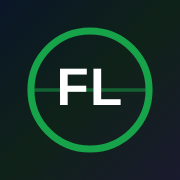
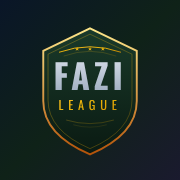
Pulsante "Installa" nell'app e icona con lo stemma
- Banner "Metti Fazi League sulla schermata Home" con pulsante INSTALLA:
  su Android apre la finestra di installazione di Chrome, altrimenti mostra
  i passaggi (iPhone/Safari o Android/Chrome, anche se aperta da WhatsApp)
- Il banner si può chiudere e non compare se l'app è già installata
- Icone della schermata Home rifatte con lo stemma FAZI LEAGUE dell'app
- Manifest: icone "any" e "maskable" separate, id dell'app

Claude-Session: https://claude.ai/code/session_01Ez5Lvp4BfofHqTWaZmhtaJ

Changed region(s): [[0.1389, 0.1389, 0.8611, 0.8611], [0.3611, 0.6667, 0.5278, 0.6944], [0.5556, 0.6667, 0.6389, 0.6944]]

diff --git a/src/App.jsx b/src/App.jsx
@@ -265,6 +265,13 @@ const uiAsk = (opts) =>
 const uiConfirm = (text, opts = {}) => uiAsk({ ...opts, text });
 const uiPrompt = (text, value = "", opts = {}) => uiAsk({ ...opts, text, input: true, value });
 
+// Installazione sulla schermata Home
+const UA = typeof navigator !== "undefined" ? navigator.userAgent : "";
+const IS_IOS = /iphone|ipad|ipod/i.test(UA) || (/macintosh/i.test(UA) && typeof navigator !== "undefined" && navigator.maxTouchPoints > 1);
+const IS_ANDROID = /android/i.test(UA);
+const isStandalone = () =>
+  (typeof window !== "undefined" && window.matchMedia?.("(display-mode: standalone)").matches) || window.navigator?.standalone === true;
+
 function logEvent(type, detail) {
   push(ref(db, "logs"), { t: Date.now(), type, detail, dev: DEVICE_ID, me: lsGet("fazi_me") }).catch(() => {});
 }
@@ -323,6 +330,9 @@ export default function App() {
   const [busy, setBusy] = useState(false);
   const [dialog, setDialog] = useState(null); // conferme/domande dentro l'app
   const dialogRef = useRef(null);
+  const [installEvt, setInstallEvt] = useState(null);   // finestra di installazione di Chrome
+  const [installHelp, setInstallHelp] = useState(false);
+  const [installHidden, setInstallHidden] = useState(() => isStandalone() || lsGet("fazi_install_hide") === "1");
 
   const autocompleteRef = useRef(null);
   const toastTimer = useRef(null);
@@ -351,6 +361,26 @@ export default function App() {
     };
     return () => { openDialog = null; };
   }, []);
+
+  useEffect(() => {
+    const onPrompt = (e) => { e.preventDefault(); setInstallEvt(e); };
+    const onInstalled = () => { setInstallEvt(null); setInstallHidden(true); };
+    window.addEventListener("beforeinstallprompt", onPrompt);
+    window.addEventListener("appinstalled", onInstalled);
+    return () => {
+      window.removeEventListener("beforeinstallprompt", onPrompt);
+      window.removeEventListener("appinstalled", onInstalled);
+    };
+  }, []);
+
+  const installApp = async () => {
+    if (!installEvt) return setInstallHelp(true);
+    installEvt.prompt();
+    try { await installEvt.userChoice; } catch { /* ignorato */ }
+    setInstallEvt(null);
+  };
+
+  const hideInstall = () => { lsSet("fazi_install_hide", "1"); setInstallHidden(true); };
 
   const closeDialog = (ok) => {
     const d = dialogRef.current;
@@ -1162,6 +1192,15 @@ export default function App() {
         <p style={S.subtitle}>Settimana {formatDate(weekDates.monday)} – {formatDate(weekDates.friday)}</p>
       </div>
 
+      {!installHidden && (installEvt || IS_IOS || IS_ANDROID) && (
+        <div style={{ display: "flex", alignItems: "center", gap: 10, maxWidth: 520, width: "calc(100% - 32px)", boxSizing: "border-box", margin: "0 auto 16px", padding: "10px 12px 10px 14px", borderRadius: 14, background: "rgba(22,163,74,0.12)", border: "1px solid rgba(22,163,74,0.35)", position: "relative", zIndex: 1 }}>
+          <span style={{ fontSize: 20 }}>📲</span>
+          <span style={{ flex: 1, fontSize: 14, color: "#e2e8f0", lineHeight: 1.3 }}>Metti Fazi League sulla schermata Home, come un'app</span>
+          <button onClick={installApp} style={{ ...S.saveBtn, padding: "8px 14px", fontSize: 13 }}>INSTALLA</button>
+          <button onClick={hideInstall} aria-label="Chiudi" style={{ background: "none", border: "none", color: "#64748b", fontSize: 18, cursor: "pointer", padding: "0 2px" }}>✕</button>
+        </div>
+      )}
+
       {/* TABS */}
       <div style={S.tabBar}>
         {[
@@ -1904,6 +1943,31 @@ export default function App() {
       )}
 
       {/* ═══ MODALE: PIN ADMIN ═══ */}
+      {installHelp && (
+        <div style={{ ...S.overlay, zIndex: 900, alignItems: "center" }} onClick={() => setInstallHelp(false)}>
+          <div style={{ ...S.modal, maxWidth: 400 }} onClick={(e) => e.stopPropagation()}>
+            <h3 style={S.modalTitle}>📲 Installa l'app</h3>
+            {IS_IOS ? (
+              <ol style={{ color: "#cbd5e1", fontSize: 15, lineHeight: 1.6, paddingLeft: 22, margin: "0 0 18px" }}>
+                <li>Apri questa pagina in <b>Safari</b></li>
+                <li>Tocca <b>Condividi</b> (il quadrato con la freccia ⬆)</li>
+                <li>Scegli <b>Aggiungi alla schermata Home</b></li>
+              </ol>
+            ) : (
+              <ol style={{ color: "#cbd5e1", fontSize: 15, lineHeight: 1.6, paddingLeft: 22, margin: "0 0 18px" }}>
+                <li>Se l'hai aperta da WhatsApp, prima tocca <b>⋮</b> → <b>Apri in Chrome</b></li>
+                <li>In Chrome tocca il menu <b>⋮</b> in alto a destra</li>
+                <li>Scegli <b>Aggiungi a schermata Home</b> (o <b>Installa app</b>)</li>
+                <li>Se te lo chiede, scegli <b>Installa</b></li>
+              </ol>
+            )}
+            <div style={{ display: "flex", justifyContent: "center" }}>
+              <button onClick={() => setInstallHelp(false)} style={S.saveBtn}>HO CAPITO</button>
+            </div>
+          </div>
+        </div>
+      )}
+
       {dialog && (
         <div style={{ ...S.overlay, zIndex: 900, alignItems: "center" }} onClick={() => closeDialog(false)}>
           <div style={{ ...S.modal, maxWidth: 380 }} onClick={(e) => e.stopPropagation()}>

diff --git a/index.html b/index.html
@@ -7,7 +7,7 @@
     <meta name="description" content="Iscrizioni, squadre e statistiche del calcetto" />
     <meta name="theme-color" content="#0a1628" />
     <link rel="manifest" href="/manifest.webmanifest" />
-    <link rel="icon" href="/icon.svg" type="image/svg+xml" />
+    <link rel="icon" href="/favicon-32.png" type="image/png" sizes="32x32" />
     <link rel="apple-touch-icon" href="/apple-touch-icon.png" />
     <meta name="apple-mobile-web-app-capable" content="yes" />
     <meta name="mobile-web-app-capable" content="yes" />
